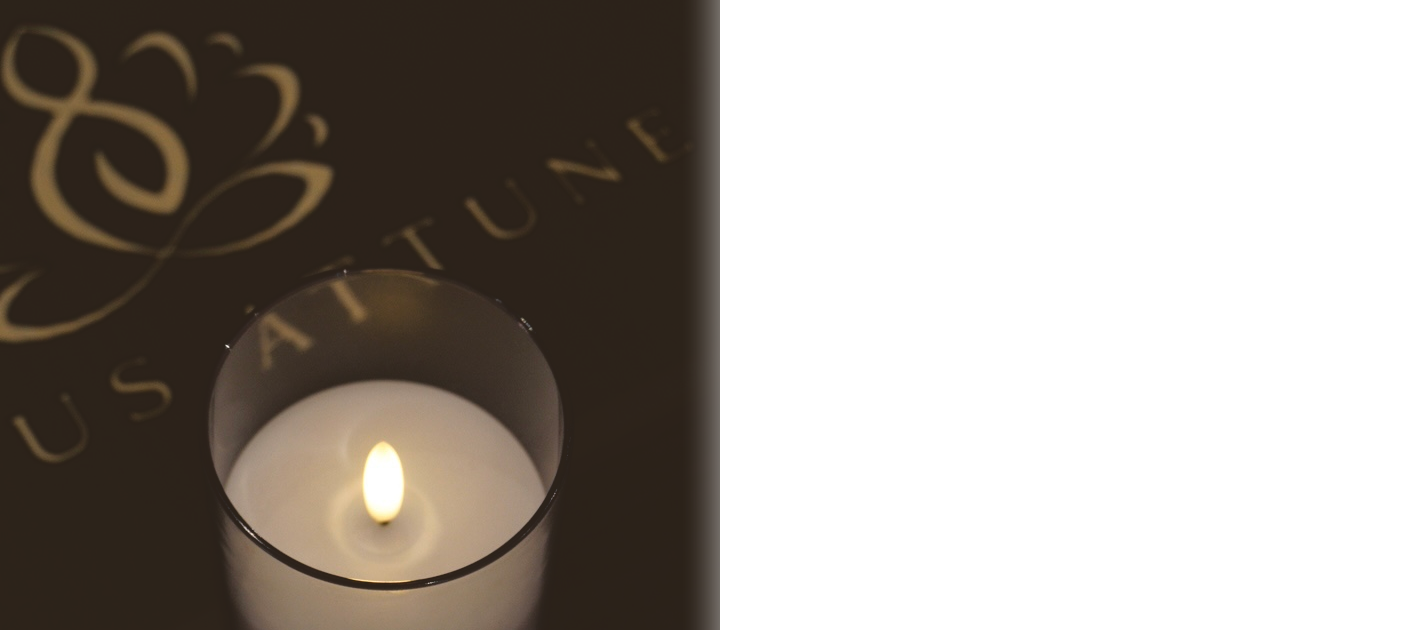
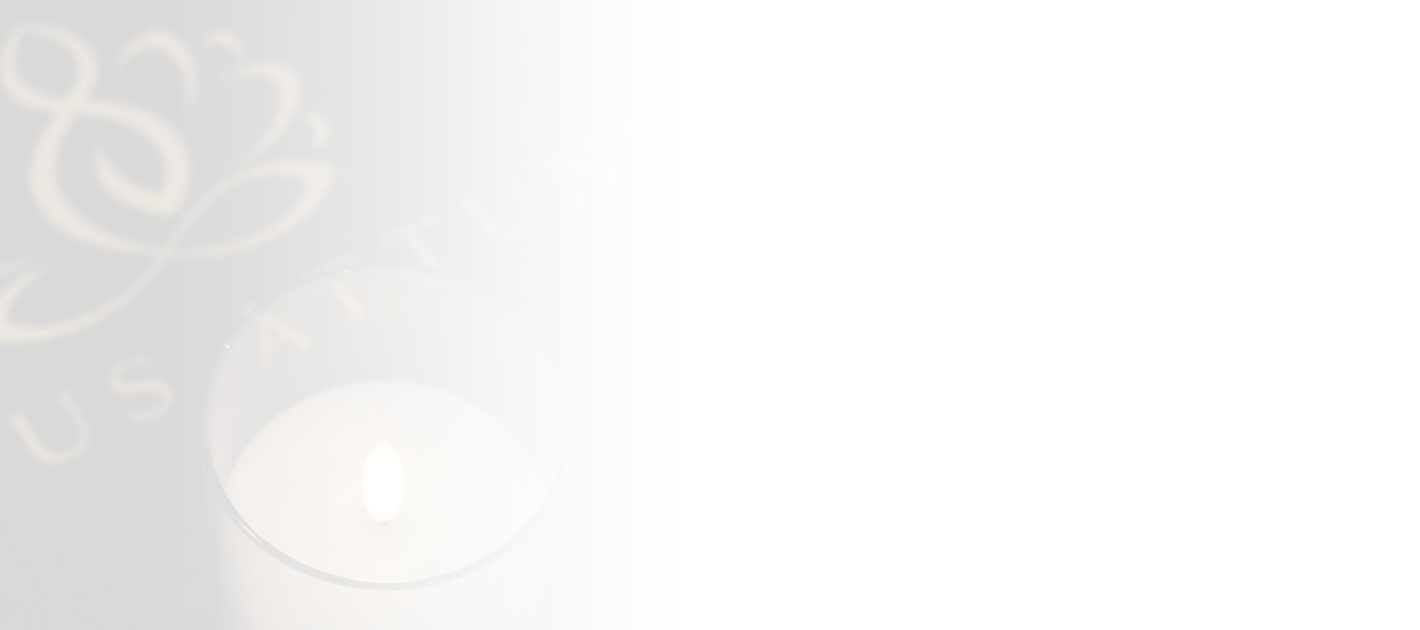
Draft: swap the footer and Offerings box treatments
Footer: replace the crisp candle/logo cutout with a faint ghost
texture (same low-opacity treatment as the Offerings box), sidestepping
the background color-matching problem entirely.

Offerings box: replace the flat gold logo with the crisp candle/logo
photo instead, bled edge-to-edge to the box's own rounded corners with
a true-transparency fade at the top.

diff --git a/src/components/offerings/SessionConfigurator.tsx b/src/components/offerings/SessionConfigurator.tsx
@@ -293,20 +293,12 @@ export function SessionConfigurator({ pricing }: Props) {
         </div>
 
         {!isPrivate && (
-          <div className={styles.logoSpacer}>
+          <div className={styles.photoBleed}>
             <Image
-              src={asset('offerings-ghost-photo').src}
+              src={asset('offerings-box-photo').src}
               alt=""
               fill
-              className={styles.ghostPhoto}
-              unoptimized
-            />
-            <Image
-              src={asset('offerings-logo-on-brown').src}
-              alt=""
-              width={asset('offerings-logo-on-brown').width}
-              height={asset('offerings-logo-on-brown').height}
-              className={styles.logoImage}
+              className={styles.boxPhoto}
               unoptimized
             />
           </div>

diff --git a/src/components/offerings/SessionConfigurator.module.css b/src/components/offerings/SessionConfigurator.module.css
@@ -125,25 +125,16 @@
   min-width: 0;
 }
 
-.logoSpacer {
+.photoBleed {
   position: relative;
   flex: 1;
-  display: flex;
-  align-items: center;
-  justify-content: center;
-  min-height: 0;
-  padding: 12px 0;
+  min-height: 120px;
+  margin: 0 clamp(-22px, -2.4vw, -16px) clamp(-20px, -2.2vw, -16px);
 }
 
-.ghostPhoto {
+.boxPhoto {
   object-fit: cover;
   pointer-events: none;
-}
-
-.logoImage {
-  position: relative;
-  width: 78%;
-  height: auto;
 }
 
 .summaryTitle {
